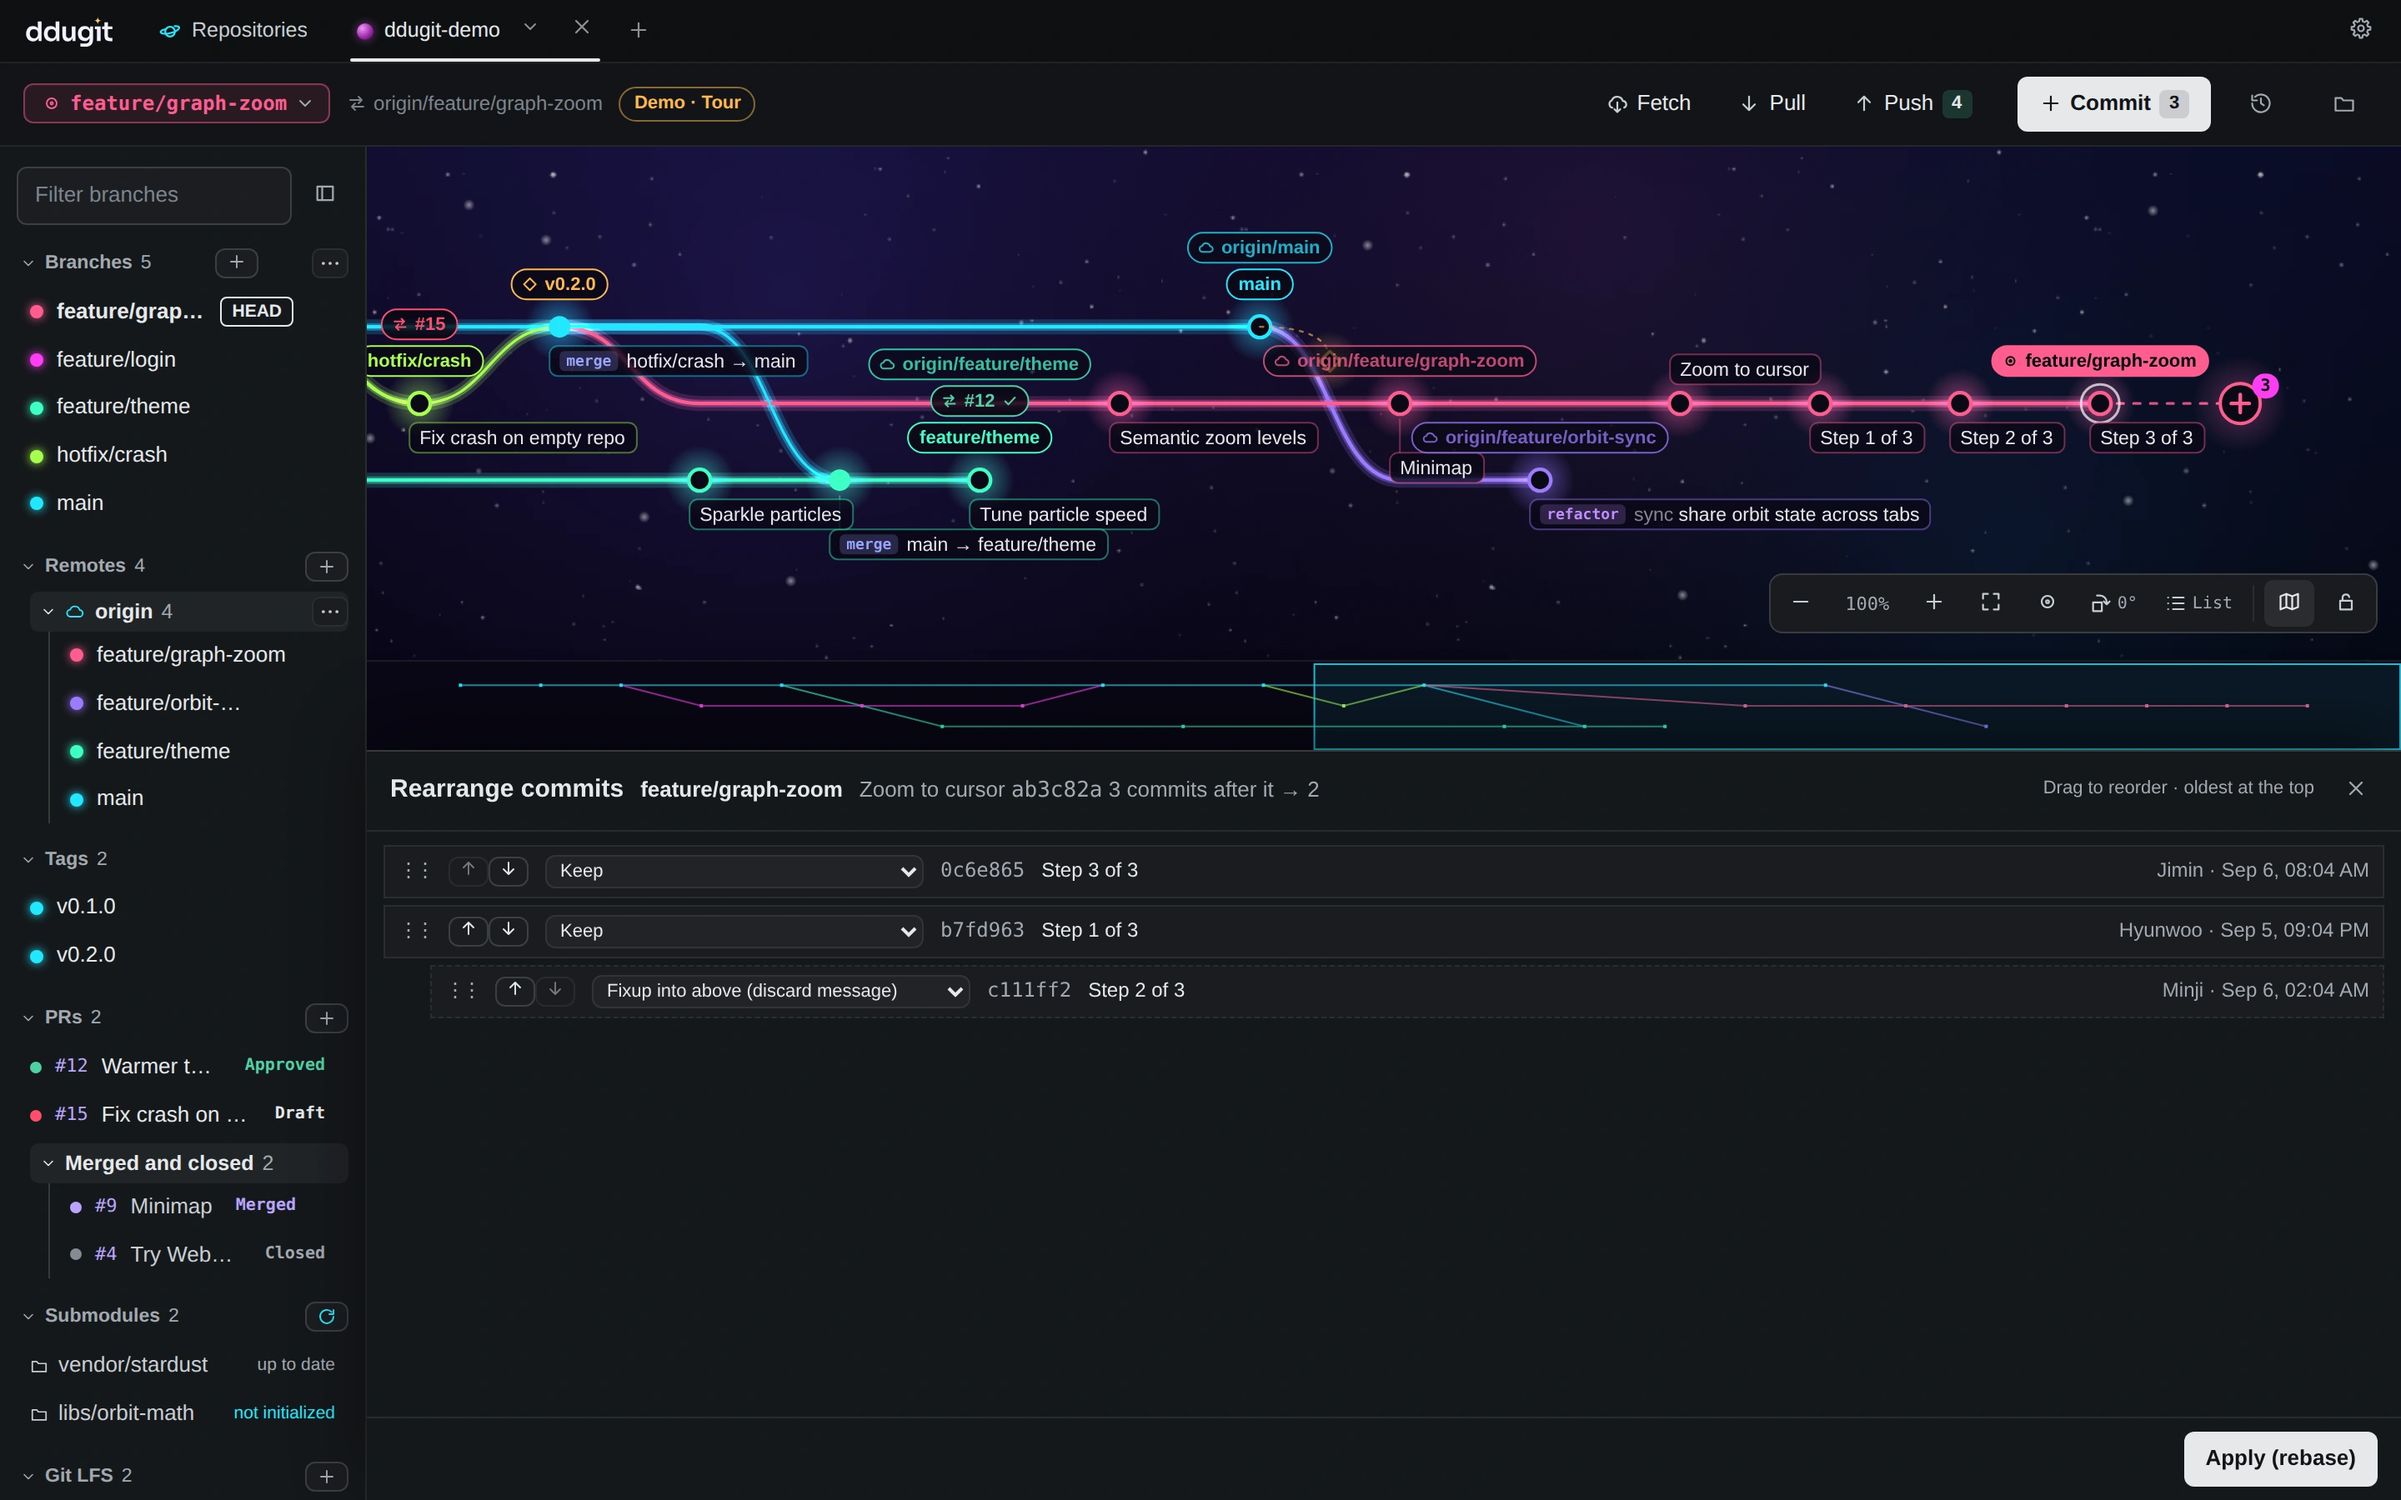
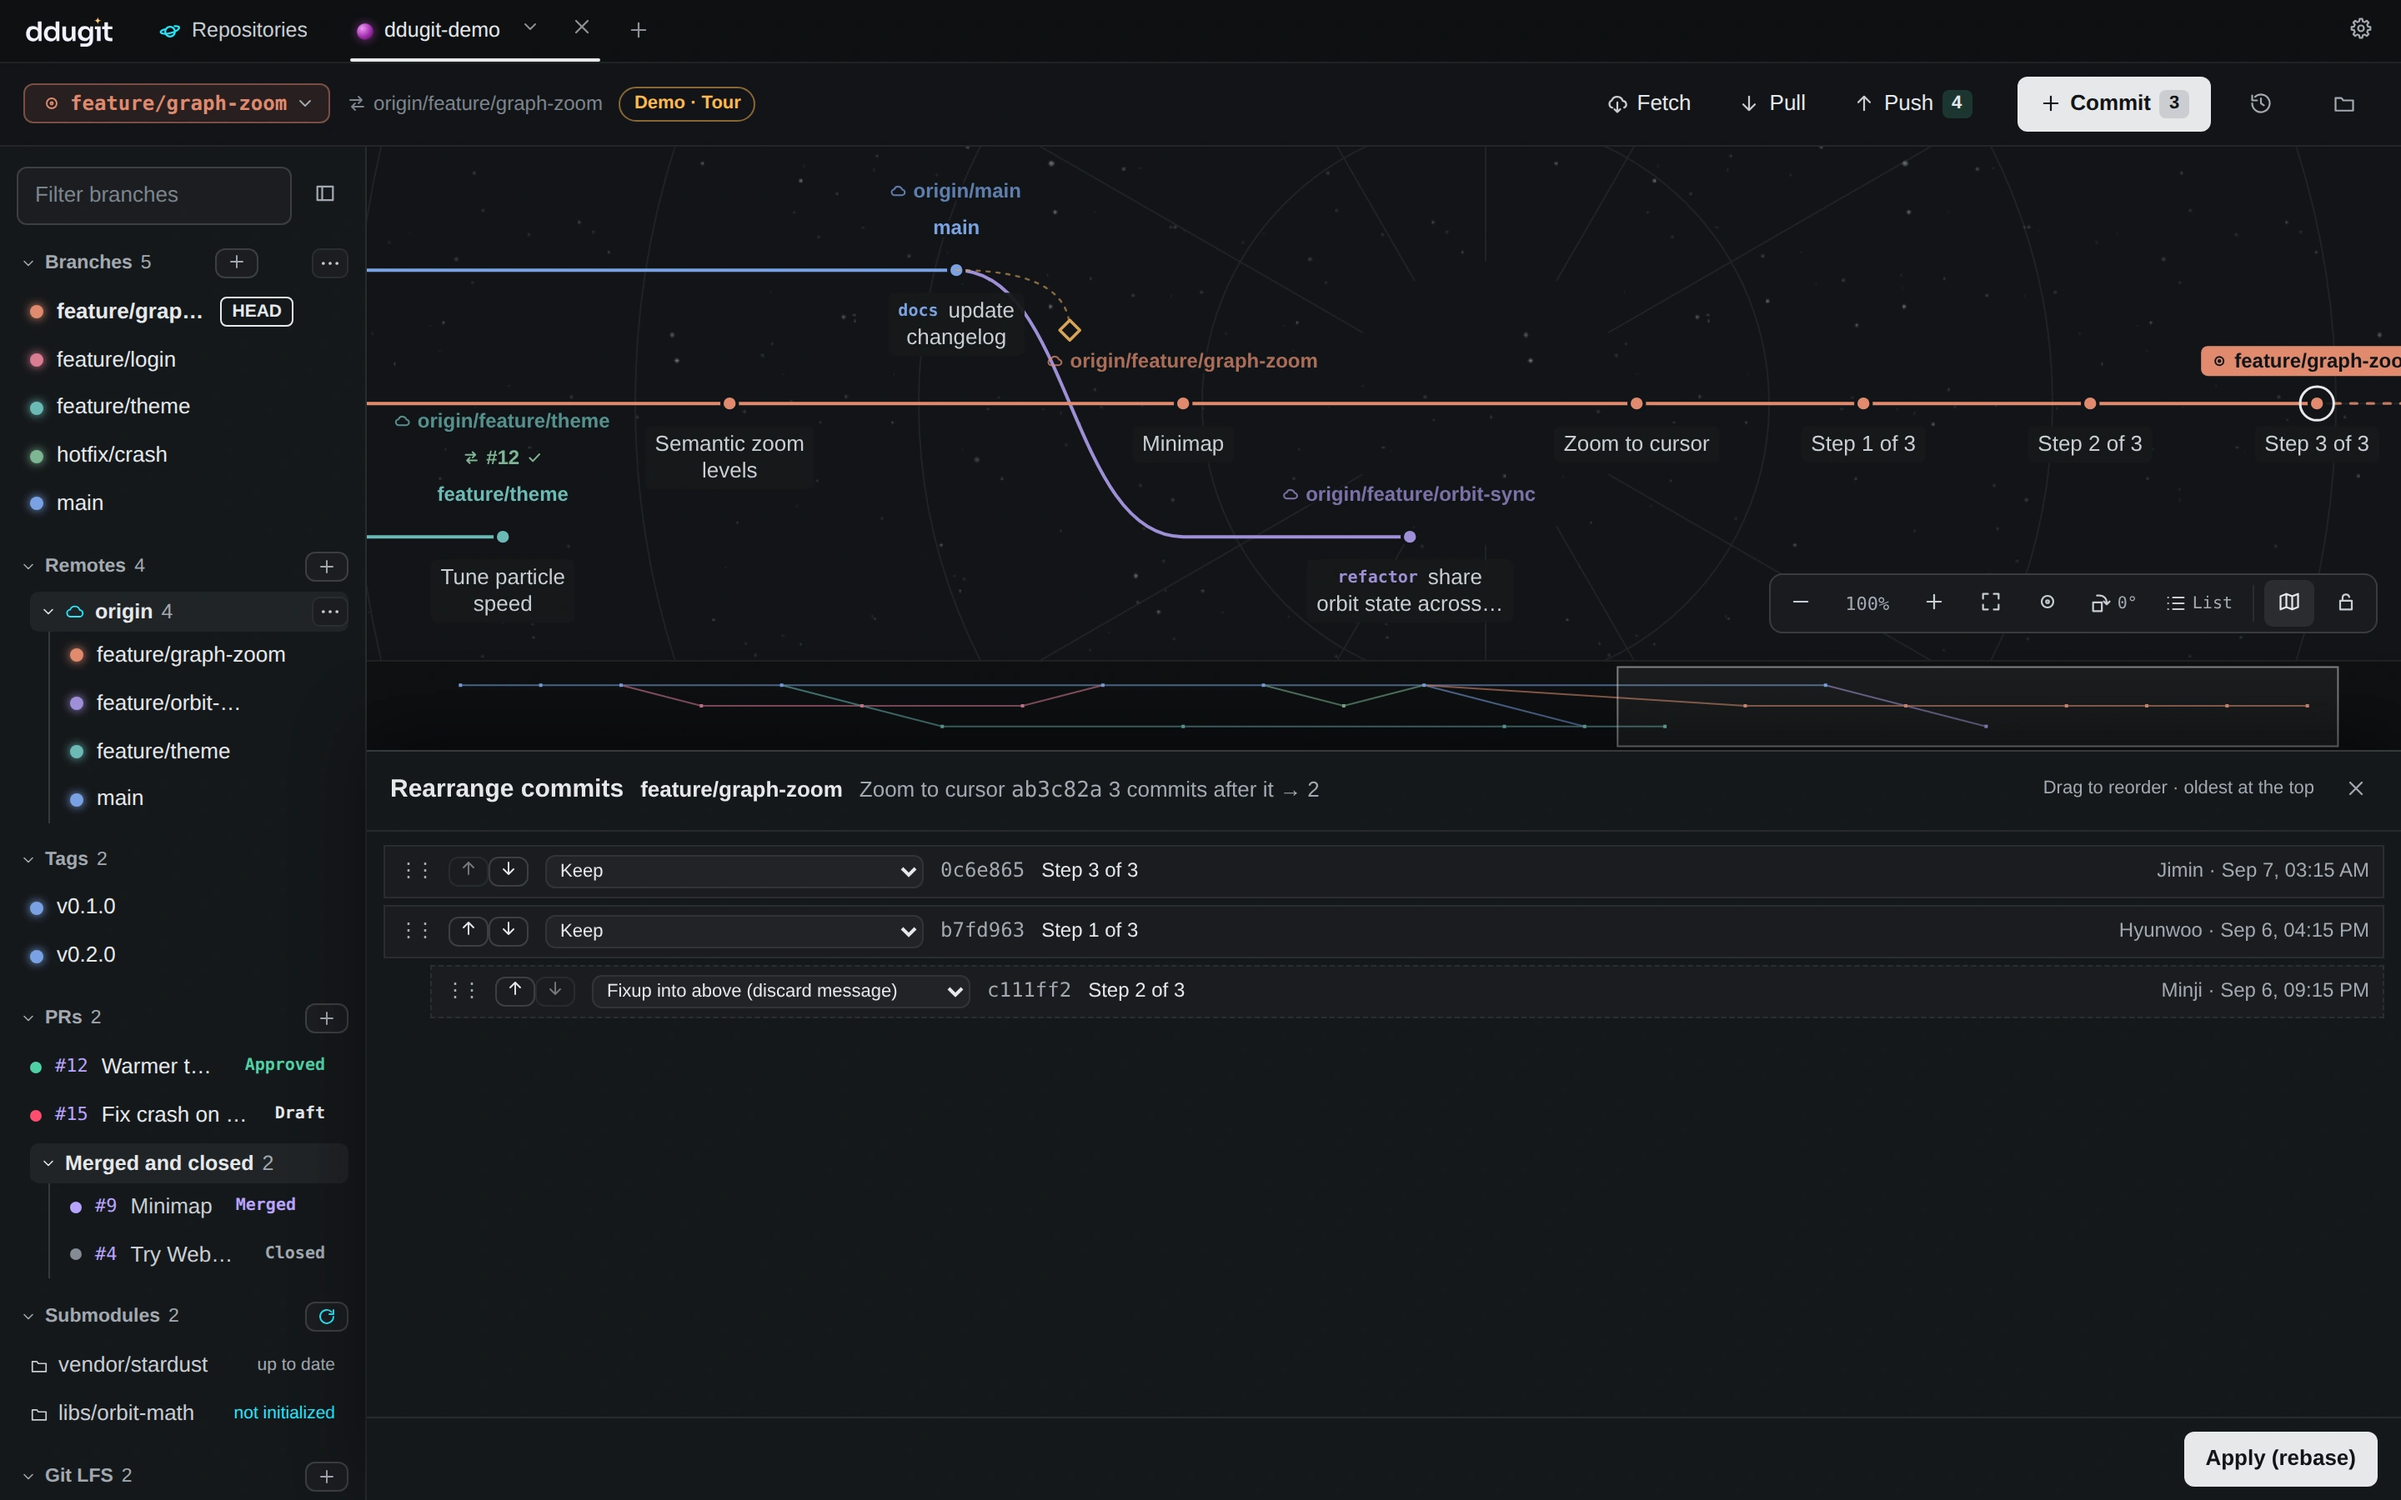
docs(site): retake screenshots with the gauge map and captions under each commit (#42)
The app's default map is now the gauge look, with each commit's message on
a panel right under it; the feature line names the three map looks.

Claude-Session: https://claude.ai/code/session_01E4MAcQxfKZ3joRFfSJW55d

diff --git a/src/app/page.tsx b/src/app/page.tsx
@@ -13,7 +13,7 @@ const FEATURES: Feature[] = [
   {
     icon: "graph",
     name: "A graph you can move around",
-    body: "Pan, zoom and rotate your history. Each branch keeps its lane and color, so large repositories stay readable.",
+    body: "Pan, zoom and rotate your history. Each branch keeps its lane and color, and each message sits under its commit. Choose a gauge, metro or space look.",
   },
   {
     icon: "merge",
